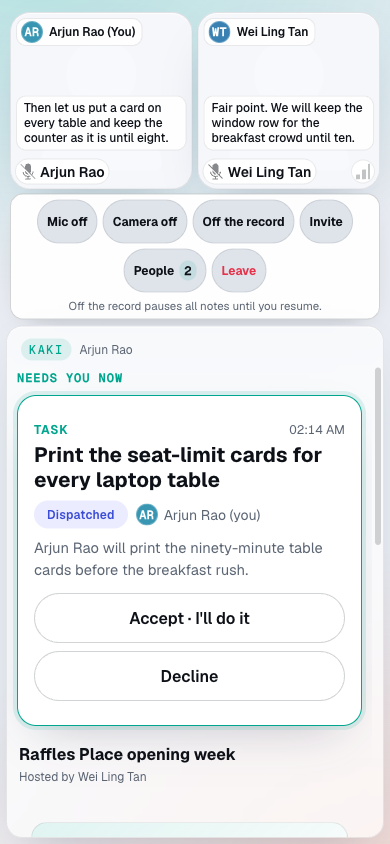
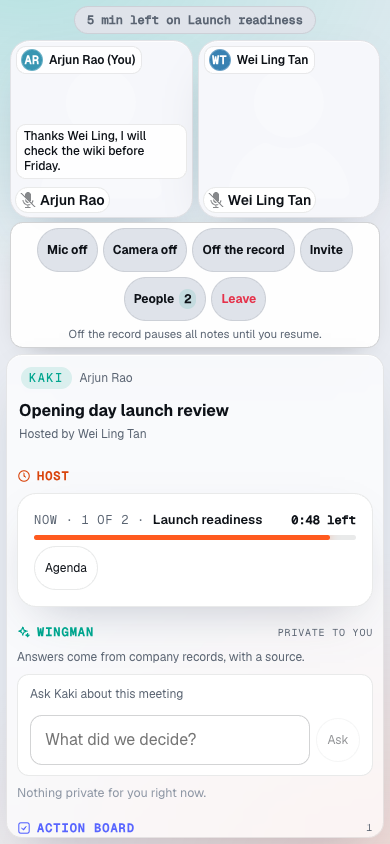
fix(panel): Published pill opens the section that shows the task; asked-you hint states the question once; fresh room screenshots
Claude-Session: https://claude.ai/code/session_01WsoCaY9VwaqayVJA6RDmWu

Changed region(s): [[0.0, 0.1232, 0.9846, 1.0], [0.0, 0.0, 0.9846, 0.0924], [0.8615, 0.7393, 0.8923, 0.7701]]

diff --git a/web/src/meeting/room/MeetingPanel.tsx b/web/src/meeting/room/MeetingPanel.tsx
@@ -22,7 +22,7 @@ import { TaskControls } from './TaskControls';
 import { WingmanPanel } from './WingmanPanel';
 import type { TranscriptViewer } from './captions';
 import { distinctDisplayNames } from './people';
-import { starterChipsFromAgendaItem } from './stageModel';
+import { starterChipsFromAgendaItem, taskDockSection } from './stageModel';
 import { entryForEvent, entryForTask, type TimelineEntry } from './timeline';
 
 function downloadMinutes(title: string, body: string): void {
@@ -280,41 +280,25 @@ export function MeetingPanel({
   const minutesPublished =
     minutesTask?.artifactUrl !== undefined &&
     (minutesTask.status === 'COMPLETED' || minutesTask.status === 'SYNCED');
+  const meetingWrappedUp = useMemo(
+    () => events.some((event) => event.type === 'HOST_SPEECH_TRIGGERED' && event.payload.kind === 'CLOSING'),
+    [events],
+  );
   const meetingEnded = useMemo(
     () =>
       minutesTask !== undefined ||
       record?.payload.ended === true ||
-      events.some((event) => event.type === 'HOST_SPEECH_TRIGGERED' && event.payload.kind === 'CLOSING'),
-    [events, minutesTask, record],
+      meetingWrappedUp,
+    [meetingWrappedUp, minutesTask, record],
   );
   const currentAgendaTitle = record !== undefined ? scenario.agenda[record.payload.agendaIndex]?.title : undefined;
   const boardTasks = useMemo(
     () =>
-      visibleTasks.filter((task) => {
-        if (role === undefined || task.assignee !== role.id) return true;
-        if (
-          task.status === 'DISPATCHED' ||
-          task.status === 'CLAIMED' ||
-          task.status === 'DRAFT_READY' ||
-          task.status === 'RUNNING' ||
-          task.status === 'COMPLETED' ||
-          task.status === 'FAILED'
-        ) {
-          return false;
-        }
-        if (
-          task.status === 'SYNCED' &&
-          task.artifactUrl !== undefined &&
-          !meetingEnded &&
-          (currentAgendaTitle === undefined ||
-            task.agendaItemTitle === undefined ||
-            task.agendaItemTitle === currentAgendaTitle)
-        ) {
-          return false;
-        }
-        return true;
-      }),
-    [visibleTasks, role, meetingEnded, currentAgendaTitle],
+      visibleTasks.filter(
+        (task) =>
+          taskDockSection(task, role?.id, { meetingEnded: meetingWrappedUp, currentAgendaTitle }) === 'action-board',
+      ),
+    [visibleTasks, role, meetingWrappedUp, currentAgendaTitle],
   );
   const publishedDeliverables = useMemo(
     () =>

diff --git a/web/src/meeting/room/MeetingGrid.test.tsx b/web/src/meeting/room/MeetingGrid.test.tsx
@@ -376,6 +376,60 @@ describe('stage action pill', () => {
     fireEvent.click(screen.getByRole('button', { name: 'Dismiss notification' }));
     expect(screen.queryByRole('status')).toBeNull();
   });
+
+  it('points the assignee at their own published card, which is not on the action board', async () => {
+    const needsYou = document.createElement('section');
+    needsYou.id = 'needs-you-now';
+    const board = document.createElement('section');
+    board.id = 'action-board';
+    const toNeedsYou = vi.fn();
+    const toBoard = vi.fn();
+    needsYou.scrollIntoView = toNeedsYou;
+    board.scrollIntoView = toBoard;
+    document.body.append(needsYou, board);
+    try {
+      mocks.screenTasks.set('live', {
+        id: 'live', title: 'Share the stock count', context: '', suggestedAssignee: 'host',
+        assignee: 'chef', agendaItemTitle: 'Prep', status: 'SYNCED',
+        artifactUrl: 'https://example.test/live', updatedAt: '2026-11-13T10:05:00.000Z',
+      });
+      render(<MeetingGrid role="chef" />);
+
+      fireEvent.click(screen.getByRole('status'));
+      await waitFor(() => expect(toNeedsYou).toHaveBeenCalled());
+      expect(toBoard).not.toHaveBeenCalled();
+    } finally {
+      needsYou.remove();
+      board.remove();
+    }
+  });
+
+  it('points everyone else at the action board for a published task', async () => {
+    const needsYou = document.createElement('section');
+    needsYou.id = 'needs-you-now';
+    const board = document.createElement('section');
+    board.id = 'action-board';
+    const toNeedsYou = vi.fn();
+    const toBoard = vi.fn();
+    needsYou.scrollIntoView = toNeedsYou;
+    board.scrollIntoView = toBoard;
+    document.body.append(needsYou, board);
+    try {
+      mocks.screenTasks.set('live', {
+        id: 'live', title: 'Share the stock count', context: '', suggestedAssignee: 'chef',
+        assignee: 'host', agendaItemTitle: 'Prep', status: 'SYNCED',
+        artifactUrl: 'https://example.test/live', updatedAt: '2026-11-13T10:05:00.000Z',
+      });
+      render(<MeetingGrid role="chef" />);
+
+      fireEvent.click(screen.getByRole('status'));
+      await waitFor(() => expect(toBoard).toHaveBeenCalled());
+      expect(toNeedsYou).not.toHaveBeenCalled();
+    } finally {
+      needsYou.remove();
+      board.remove();
+    }
+  });
 });
 
 describe('stage wording', () => {

diff --git a/web/src/meeting/room/MeetingGrid.tsx b/web/src/meeting/room/MeetingGrid.tsx
@@ -27,7 +27,7 @@ import { MutedHint } from './MutedHint';
 import { useRealRoom } from './realRoom';
 import { distinctDisplayNames, peopleNotInRoom } from './people';
 import { SectionIcon } from './SectionHeading';
-import { activeStageTaskFor, tracksWithSpeakerFirst, visibleStageTracks } from './stageModel';
+import { activeStageTaskFor, taskDockSection, tracksWithSpeakerFirst, visibleStageTracks } from './stageModel';
 import { textOnlyNote, transcriptChunks } from './captions';
 
 /** The meeting stage: one tile per participant with live captions, and the AI attendees' status. */
@@ -226,6 +226,11 @@ export function MeetingGrid({
       .find((note) => note.urgency === 'act_now' && note.clears !== true);
   }, [wingmanNotes, real, sharedAudience]);
 
+  const meetingWrappedUp = useMemo(
+    () => screenEvents.some((event) => event.type === 'HOST_SPEECH_TRIGGERED' && event.payload.kind === 'CLOSING'),
+    [screenEvents],
+  );
+
   const activeStageToast = useMemo(() => {
     if (directQuestion !== undefined) {
       return {
@@ -259,13 +264,16 @@ export function MeetingGrid({
       return {
         key,
         label: 'Published · open in Kaki →',
-        target: 'action-board',
+        target: taskDockSection(publishedTask, role, {
+          meetingEnded: meetingWrappedUp,
+          currentAgendaTitle: activeItem?.title,
+        }),
         icon: 'action' as const,
         tone: 'action' as const,
       };
     }
     return undefined;
-  }, [directQuestion, screenTasks, role, activeItem]);
+  }, [directQuestion, screenTasks, role, activeItem, meetingWrappedUp]);
 
   // Open the panel first, then scroll once the section it holds has actually rendered.
   const [pendingScroll, setPendingScroll] = useState<string | null>(null);
@@ -287,10 +295,6 @@ export function MeetingGrid({
   const gridTracks = useMemo(
     () => (narrow ? tracksWithSpeakerFirst(tracks, speakingSpeaker) : tracks),
     [narrow, tracks, speakingSpeaker],
-  );
-  const meetingWrappedUp = useMemo(
-    () => screenEvents.some((event) => event.type === 'HOST_SPEECH_TRIGGERED' && event.payload.kind === 'CLOSING'),
-    [screenEvents],
   );
   const topicSettled = useMemo(() => {
     const title = activeItem?.title;

diff --git a/web/src/meeting/room/stageModel.ts b/web/src/meeting/room/stageModel.ts
@@ -113,6 +113,40 @@ export function activeStageTaskFor(
 }
 
 /**
+ * The dock section that shows a task to a seat: its own "Needs you now" cards, or the shared Action
+ * board. The panel filter and the stage pill both use this so the two cannot drift apart.
+ */
+export function taskDockSection(
+  task: Task,
+  role: string | undefined,
+  context: { meetingEnded: boolean; currentAgendaTitle: string | undefined },
+): 'needs-you-now' | 'action-board' {
+  if (role === undefined || (task.assignee ?? task.suggestedAssignee) !== role) return 'action-board';
+  switch (task.status) {
+    case 'DISPATCHED':
+    case 'DRAFT_READY':
+    case 'FAILED':
+    case 'COMPLETED':
+    case 'CLAIMED':
+    case 'RUNNING':
+      return 'needs-you-now';
+    case 'SYNCED':
+      if (task.artifactUrl === undefined) return 'action-board';
+      if (context.meetingEnded) return 'action-board';
+      if (
+        context.currentAgendaTitle !== undefined &&
+        task.agendaItemTitle !== undefined &&
+        task.agendaItemTitle !== context.currentAgendaTitle
+      ) {
+        return 'action-board';
+      }
+      return 'needs-you-now';
+    default:
+      return 'action-board';
+  }
+}
+
+/**
  * The tracks the stage shows: never the runner's technical listener, and only AI attendees in this
  * meeting's cast. People are never filtered by metadata: a camera-off placeholder must still show
  * its human tile.

diff --git a/server/src/wingman/module.ts b/server/src/wingman/module.ts
@@ -346,7 +346,7 @@ export function createWingmanModule(options: WingmanModuleOptions = {}): KakiMod
               kind: 'asked_you',
               urgency: 'act_now',
               title: `${speakerName(line.speaker)} asked you`,
-              text: `${speakerName(line.speaker)} asked you: ${verdict.question}`,
+              text: verdict.question,
               questionText: verdict.question,
               questionFrom: 'person',
               askedBy: speakerName(line.speaker),

diff --git a/server/test/wingman/wingman-module.test.ts b/server/test/wingman/wingman-module.test.ts
@@ -473,7 +473,8 @@ describe('wingman module', () => {
       expect(note.payload).toMatchObject({
         kind: 'asked_you',
         urgency: 'act_now',
-        text: 'Bao asked you: When is the delivery?',
+        title: 'Bao asked you',
+        text: 'When is the delivery?',
         questionText: 'When is the delivery?',
       });
       expect(note.payload.facts).toEqual([factA]);

diff --git a/web/src/meeting/room/MeetingPanel.test.tsx b/web/src/meeting/room/MeetingPanel.test.tsx
@@ -434,7 +434,7 @@ describe('MeetingPanel', () => {
       kind: 'asked_you',
       urgency: 'act_now',
       title: 'Ravi asked you',
-      text: 'Ravi asked you: What should the kiosk do at 8?',
+      text: 'What should the kiosk do at 8?',
       questionText: 'What should the kiosk do at 8?',
       questionFrom: 'person',
       askedBy: 'Ravi',
